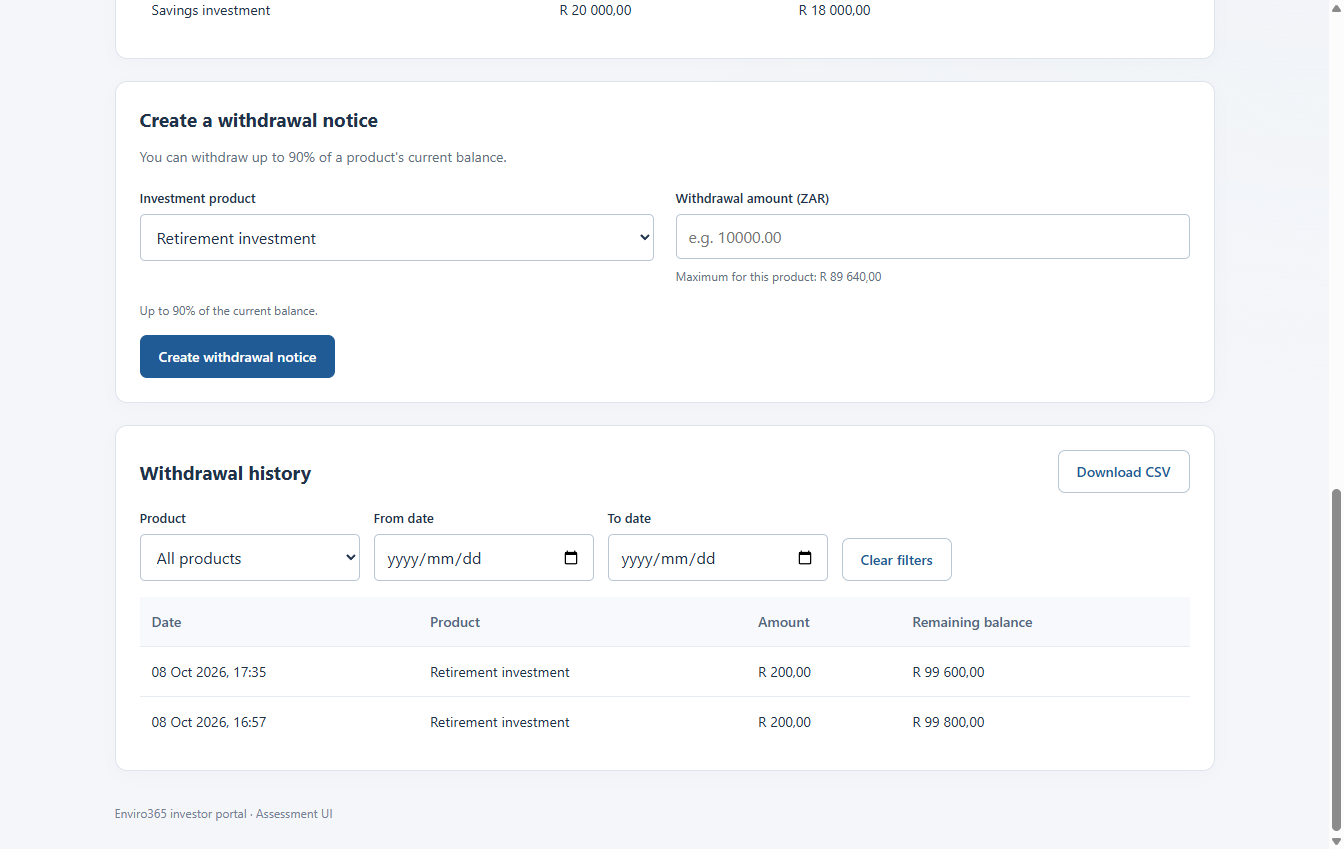
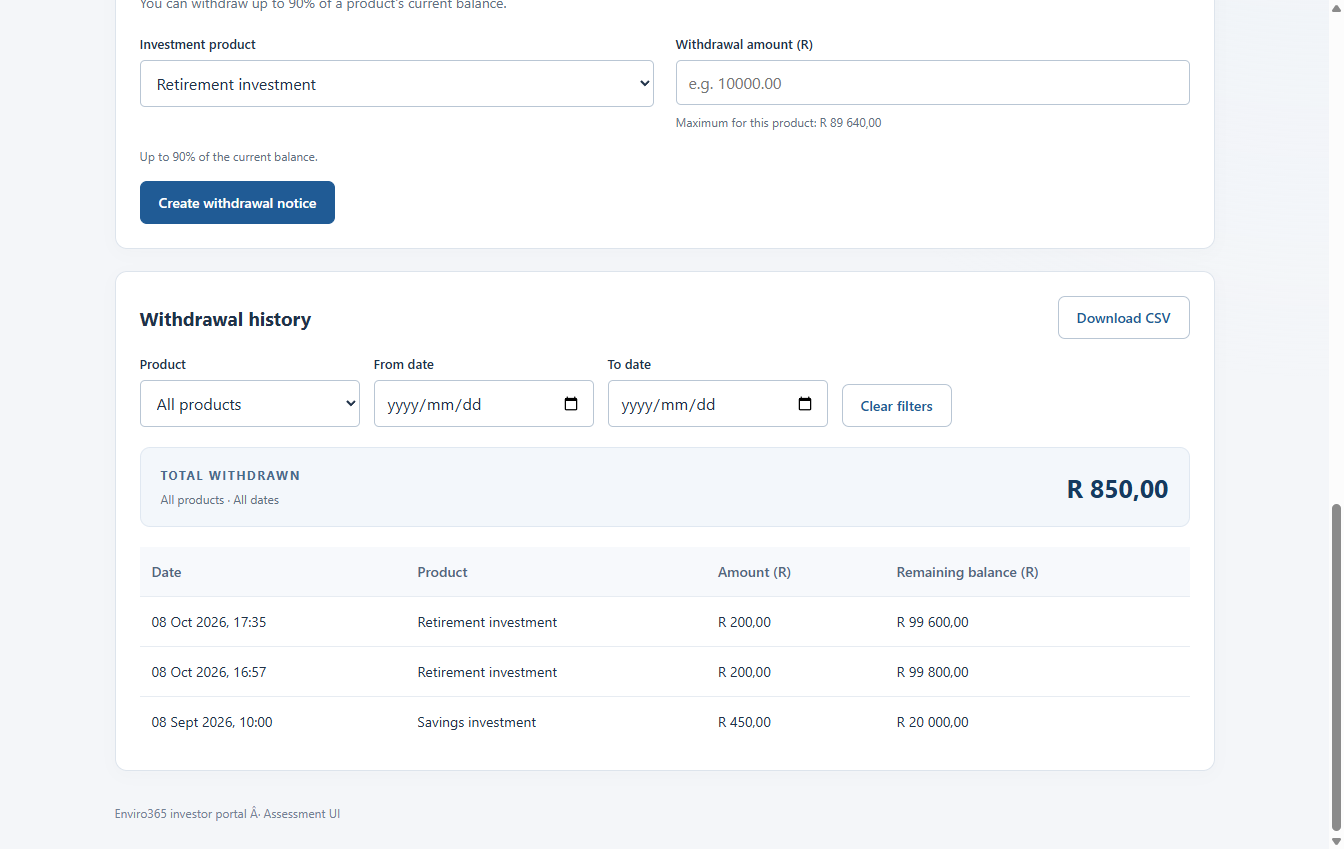
update rand labels and polish the wording

diff --git a/src/main/resources/static/index.html b/src/main/resources/static/index.html
@@ -28,7 +28,7 @@
           <p class="eyebrow">INVESTOR PORTFOLIO</p>
 
           <div class="investor-picker">
-            <label for="investor-select">Choose example investor</label
+            <label for="investor-select">Choose an investor</label
             ><select id="investor-select" disabled>
               <option>Loading investors...</option>
             </select>
@@ -55,7 +55,7 @@
             <p id="available-total" class="withdrawal-summary-value"></p>
 
             <p class="withdrawal-summary-help">
-              Up to 90% of eligible product balances. Retirement requires an age above 65.
+              Up to 90% of eligible product balances. Retirement withdrawals are available only to investors older than 65.
             </p>
 
             <a class="withdrawal-summary-action" href="#withdrawal"
@@ -70,11 +70,6 @@
         </div>
       </section>
 
-      <p class="demo-note">
-        Use the example investor selector. Balances and withdrawal notices are saved in the local H2
-        database.
-      </p>
-
       <section id="portfolio" aria-labelledby="portfolio-heading">
         <h2 id="portfolio-heading" class="visually-hidden">Portfolio overview</h2>
 
@@ -85,7 +80,7 @@
                 <p class="eyebrow">PORTFOLIO BREAKDOWN</p>
                 <h2 id="chart-heading">Where your money is invested</h2>
               </div>
-              <span class="chart-unit">ZAR</span>
+              <span class="chart-unit">R</span>
             </div>
 
             <p class="muted">Compare the current balance of each investment product.</p>
@@ -117,8 +112,8 @@
               <thead>
                 <tr>
                   <th>Product</th>
-                  <th>Balance</th>
-                  <th>Maximum withdrawal</th>
+                  <th>Balance (R)</th>
+                  <th>Maximum withdrawal (R)</th>
                 </tr>
               </thead>
               <tbody id="products"></tbody>
@@ -146,7 +141,7 @@
               <p id="product-error" class="error" aria-live="polite"></p>
             </div>
             <div>
-              <label for="amount">Withdrawal amount (ZAR)</label
+              <label for="amount">Withdrawal amount (R)</label
               ><input
                 id="amount"
                 name="amount"
@@ -208,8 +203,8 @@
               <tr>
                 <th>Date</th>
                 <th>Product</th>
-                <th>Amount</th>
-                <th>Remaining balance</th>
+                <th>Amount (R)</th>
+                <th>Remaining balance (R)</th>
               </tr>
             </thead>
             <tbody id="history-rows"></tbody>

diff --git a/src/main/resources/static/js/index.js b/src/main/resources/static/js/index.js
@@ -100,7 +100,7 @@ function renderProductHelp() {
 
   byId('eligibility-help').textContent = product.withdrawalAllowed
     ? product.eligibilityMessage
-    : 'Savings withdrawals remain available. Retirement requires an age above 65.';
+    : 'Savings withdrawals remain available. Retirement withdrawals are available only to investors older than 65.';
 }
 
 function renderPie() {

diff --git a/src/main/resources/static/css/styles.css b/src/main/resources/static/css/styles.css
@@ -113,14 +113,6 @@ p {
   white-space: nowrap;
 }
 
-.demo-note {
-  background: #edf3fb;
-  border-left: 3px solid #5685b6;
-  padding: 12px 16px;
-  font-size: 13px;
-  margin: 24px 0;
-}
-
 .panel {
   background: white;
   border: 1px solid #dde4ec;

diff --git a/src/test/java/com/enviro/assessment/junior/thabiso/kojoana/PortfolioApiTests.java b/src/test/java/com/enviro/assessment/junior/thabiso/kojoana/PortfolioApiTests.java
@@ -99,7 +99,7 @@ class PortfolioApiTests {
             .andExpect(jsonPath("$", hasSize(1))).andExpect(jsonPath("$[0].productName").value("Savings investment"));
         mvc.perform(get(url("/withdrawals/export") + query)).andExpect(status().isOk())
             .andExpect(header().string("Content-Disposition", containsString("attachment")))
-            .andExpect(content().string(allOf(containsString("\uFEFFsep=,\r\nNotice ID,Recorded at,Product,Amount ZAR,Balance before ZAR,Remaining balance ZAR\r\n"), containsString("\"Savings investment\",50.00,20000.00,19950.00\r\n"), not(containsString("Retirement investment")))));
+            .andExpect(content().string(allOf(containsString("\uFEFFsep=,\r\nNotice ID,Recorded at,Product,Amount (R),Balance before (R),Remaining balance (R)\r\n"), containsString("\"Savings investment\",50.00,20000.00,19950.00\r\n"), not(containsString("Retirement investment")))));
         mvc.perform(get(url("/withdrawals") + "?from=" + LocalDate.now().plusDays(1))).andExpect(jsonPath("$", hasSize(0)));
     }
     @Test void invalidFiltersAndMissingInvestorsReturnUsefulErrors() throws Exception {

diff --git a/src/main/java/com/enviro/assessment/junior/thabiso/kojoana/service/PortfolioService.java b/src/main/java/com/enviro/assessment/junior/thabiso/kojoana/service/PortfolioService.java
@@ -87,7 +87,7 @@ public class PortfolioService {
     }
     public String csv(List<WithdrawalDto> notices) {
         // Tell Excel to use commas even when Windows uses a different list separator.
-        StringBuilder csv = new StringBuilder("\uFEFFsep=,\r\nNotice ID,Recorded at,Product,Amount ZAR,Balance before ZAR,Remaining balance ZAR\r\n");
+        StringBuilder csv = new StringBuilder("\uFEFFsep=,\r\nNotice ID,Recorded at,Product,Amount (R),Balance before (R),Remaining balance (R)\r\n");
         for (WithdrawalDto notice : notices) {
             csv.append(notice.id()).append(',').append(notice.createdAt()).append(',').append(csvCell(notice.productName())).append(',')
                 .append(notice.amount().toPlainString()).append(',').append(notice.balanceBefore().toPlainString()).append(',')

diff --git a/docs/API.md b/docs/API.md
@@ -52,7 +52,7 @@ Selecting an investor in the UI loads their portfolio and withdrawal history. Th
 GET /api/investors/1/portfolio
 ```
 
-Complete example for a new database initialized on 8 October 2026, including Thabo's three sample notices and both products. IDs and timestamps are illustrative; existing databases may contain other records. No fields have been omitted.
+Complete example for a new database initialised on 8 October 2026, including Thabo's three sample notices and both products. IDs and timestamps are illustrative; existing databases may contain other records. No fields have been omitted.
 
 ```json
 {
@@ -141,7 +141,7 @@ Success returns **201 Created**, with `Location: /api/investors/1/withdrawals/8`
 }
 ```
 
-The timestamp is illustrative; the server records the actual time. This withdrawal changes retirement from R100,000 to R90,000. Savings stays at R20,000, so the new total balance is R110,000, the available withdrawal amount is R99,000 and the notice count becomes 4. The frontend reloads the portfolio and history after success.
+The timestamp is illustrative; the server records the actual time. This withdrawal changes retirement from R 100 000 to R 90 000. Savings stays at R 20 000, so the new total balance is R 110 000, the available withdrawal amount is R 99 000 and the notice count becomes 4. The frontend reloads the portfolio and history after success.
 
 PowerShell example:
 
@@ -263,13 +263,13 @@ Complete listing response for the savings/date filters above:
 ]
 ```
 
-The dashboard total withdrawn for these filters is R1,350 (R900 + R450). All-products history after the new R10,000 retirement withdrawal totals R13,150. These are withdrawal amounts, not the current investment balances. With no matching notices, the list returns `[]` and the displayed total is R0.00.
+The dashboard total withdrawn for these filters is R 1 350 (R900 + R450). All-products history after the new R 10 000 retirement withdrawal totals R 13 150. These are withdrawal amounts, not the current investment balances. With no matching notices, the list returns `[]` and the displayed total is R0,00.
 
  Export returns `text/csv;charset=UTF-8` with an attachment filename. The complete CSV for the same filtered savings records is:
 
 ```text
 sep=,
-Notice ID,Recorded at,Product,Amount ZAR,Balance before ZAR,Remaining balance ZAR
+Notice ID,Recorded at,Product,Amount (R),Balance before (R),Remaining balance (R)
 3,2026-09-08T10:00:00,"Savings investment",900.00,20900.00,20000.00
 2,2026-08-08T10:00:00,"Savings investment",450.00,21350.00,20900.00
 ```

diff --git a/README.md b/README.md
@@ -31,11 +31,11 @@ H2 saves the data to `data/investor-portal.mv.db`. Balances and notices survive 
 
 The first start creates three example investors with two products each:
 
-| Investor | Initial age | Retirement balance | Savings balance |
+| Investor | Initial age | Retirement balance (R) | Savings balance (R) |
 | --- | --- | --- | --- |
-| Thabo Dlamini | 67 | R100,000 | R20,000 |
-| Naledi Mokoena | 65 | R80,000 | R15,000 |
-| Sipho Nkosi | 40 | R50,000 | R30,000 |
+| Thabo Dlamini | 67 | R 100 000 | R 20 000 |
+| Naledi Mokoena | 65 | R 80 000 | R 15 000 |
+| Sipho Nkosi | 40 | R 50 000 | R 30 000 |
 
 These are labelled example accounts, not real investor records. Their dates of birth are calculated when the database is first created; displayed ages are then calculated from those saved dates. Existing data is not reset on restart. The accounts also include clearly labelled sample withdrawals from preceding months. No investment growth is simulated.
 
@@ -137,7 +137,7 @@ Screenshots show example accounts and notices created during verification.
 
 ## AI usage
 
-I used Copilot and Chagpt to explain the assessment, build and refine the UI, implement the Spring Boot backend, add tests, debug the integration and prepare documentation. Most of the implementation was AI-assisted. The comments explain the main decisions; this disclosure does not claim that the code was written without AI help.
+I used Copilot and ChatGPT to explain the assessment, build and refine the UI, implement the Spring Boot backend, add tests, debug the integration and prepare documentation. Most of the implementation was AI-assisted. The comments explain the main decisions; this disclosure does not claim that the code was written without AI help.
 
 ## Assumptions
 
